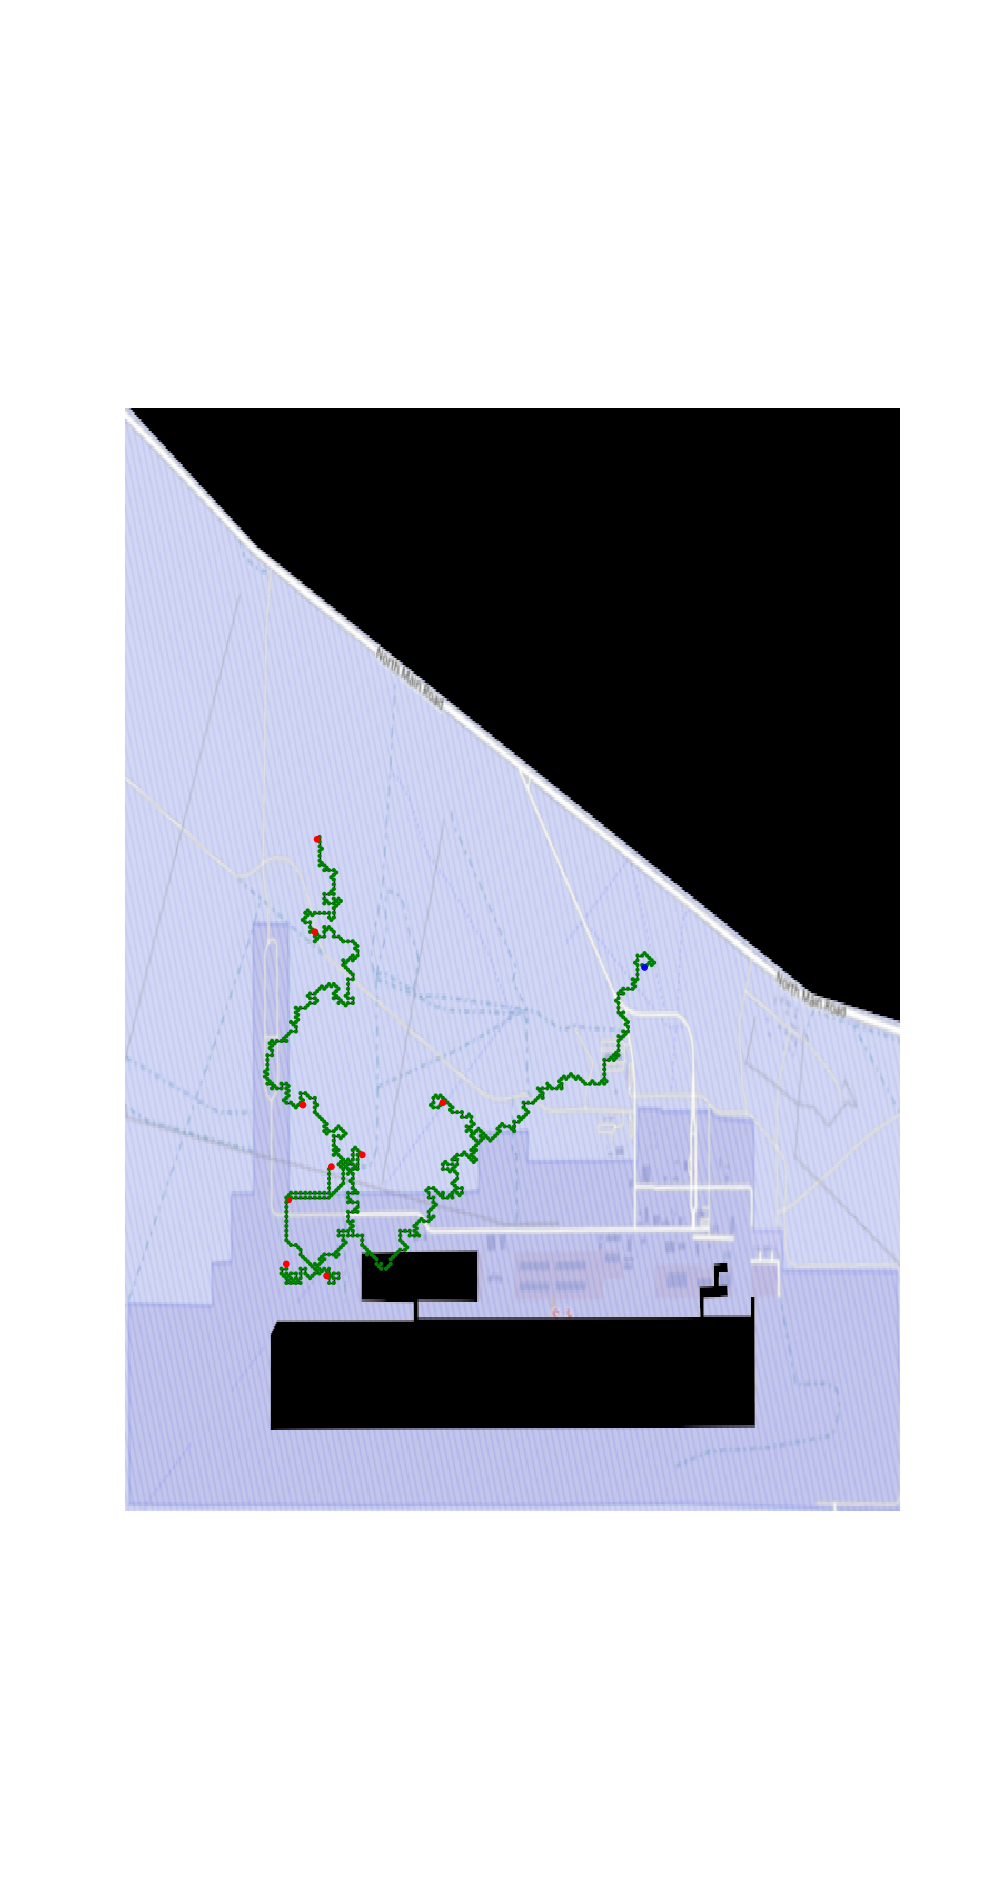
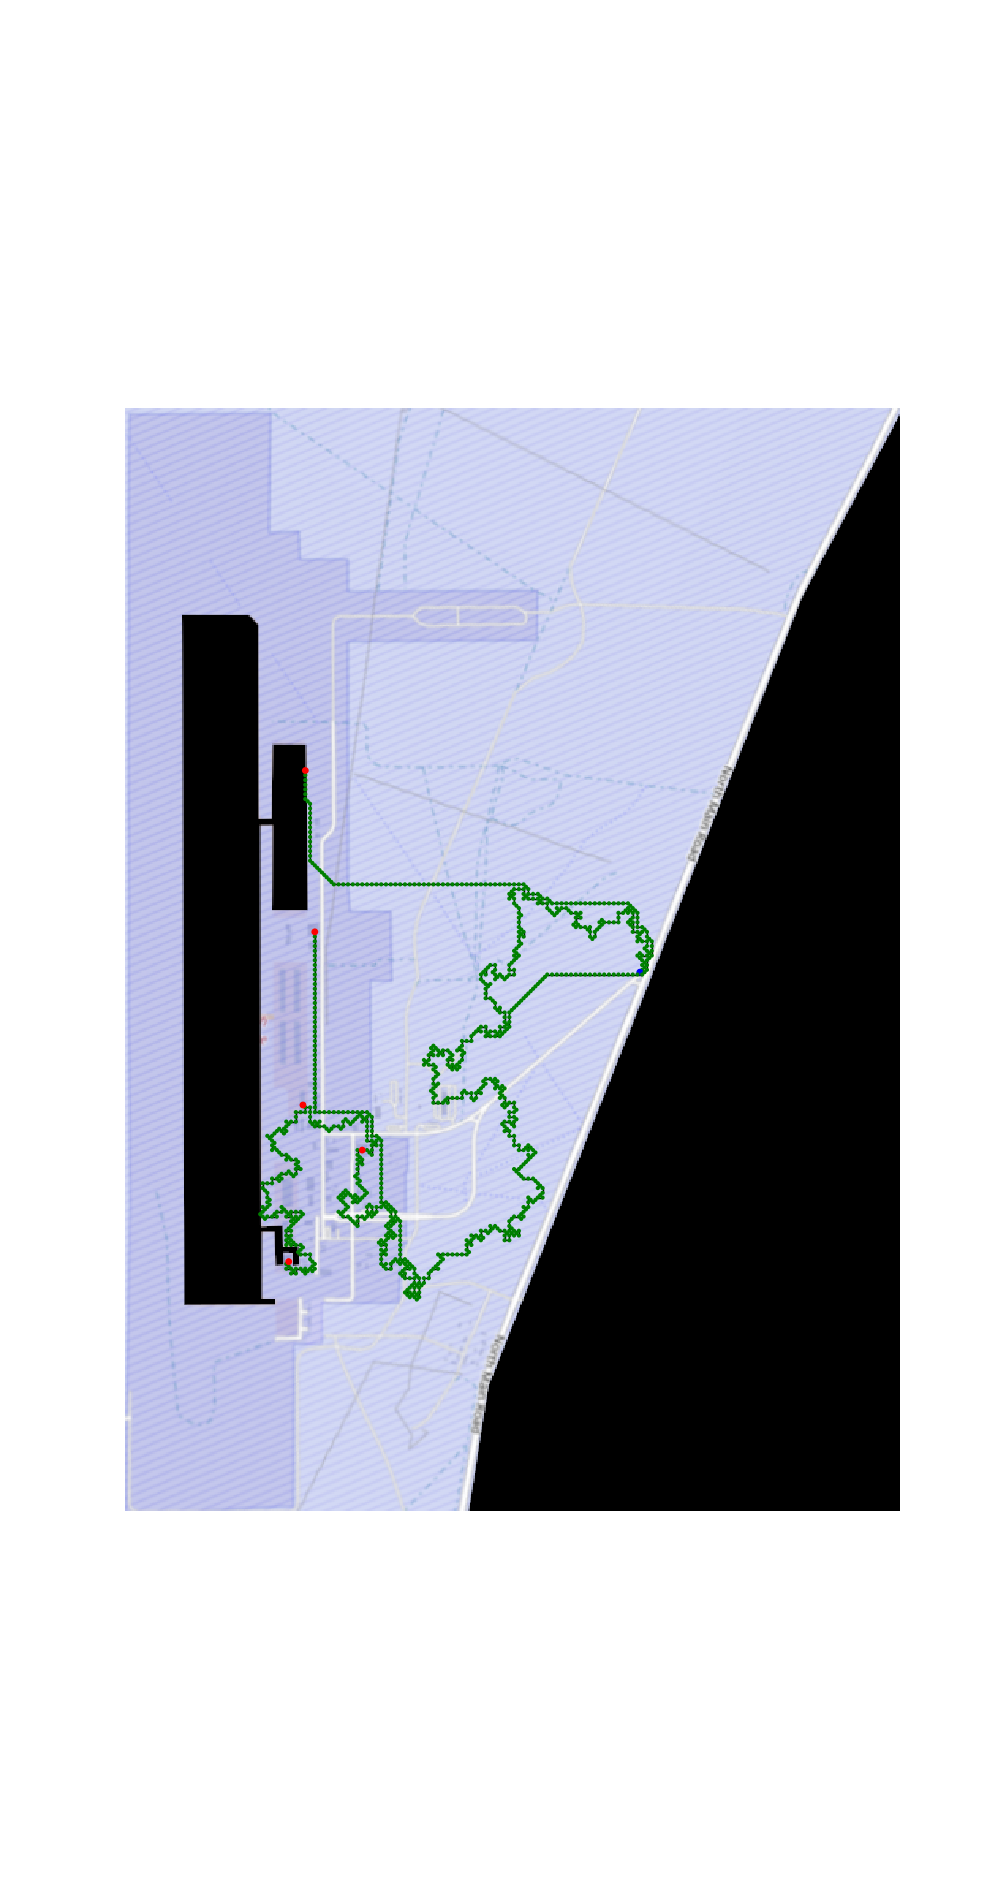
pics of algo result

Changed region(s): [[0.124, 0.2174, 0.899, 0.8074], [0.434, 0.4347, 0.496, 0.4658], [0.124, 0.7453, 0.155, 0.7763]]

diff --git a/results.py b/results.py
@@ -9,7 +9,7 @@ import pickle
 import matplotlib
 import matplotlib.pyplot as plt
 import numpy as np
-# import cv2
+import cv2
 from algo import compute_tree, build_stiener_seed, compute_metric
 from util import (
     random_points,
@@ -728,26 +728,8 @@ def main():
     #            )
     # plt.show()
 
-    ### Compute and time reattachment ###
+    # ### Compute and time reattachment ###
 
-    loc = "results/real"
-    G_f = open(f"{loc}/G.pickle", "rb")
-    G = pickle.load(G_f)
-    info_f = open(f"{loc}/info.pickle", "rb")
-    info = pickle.load(info_f)
-    s = info["s"]
-    targets = info["targets"]
-    budget = info["budget"]
-    G_f.close()
-    info_f.close()
-
-    print("Starting Reattachment...")
-    start = time.perf_counter()
-    res, pred, rounds = compute_tree(G, s, targets, budget, loc=f"{loc}/gen")
-    end = time.perf_counter()
-    print("Elapsed Time =", end - start)
-    
-    # ### Compute iterative results ###
     # loc = "results/real"
     # G_f = open(f"{loc}/G.pickle", "rb")
     # G = pickle.load(G_f)
@@ -758,49 +740,105 @@ def main():
     # budget = info["budget"]
     # G_f.close()
     # info_f.close()
-    # rounds = 10
 
-    # metric_res = []
-    # img = matplotlib.image.imread("maps/tonopah_rotated.png")
-    # mask = cv2.imread("maps/tonopah_rotated_mask.png")
+    # print("Starting Reattachment...")
+    # start = time.perf_counter()
+    # res, pred, rounds = compute_tree(G, s, targets, budget, loc=f"{loc}/gen")
+    # end = time.perf_counter()
+    # print("Elapsed Time =", end - start)
+    
+    ### Compute iterative results ###
+    loc = "results/real"
+    G_f = open(f"{loc}/G.pickle", "rb")
+    G = pickle.load(G_f)
+    info_f = open(f"{loc}/info.pickle", "rb")
+    info = pickle.load(info_f)
+    s = info["s"]
+    targets = info["targets"]
+    budget = info["budget"]
+    G_f.close()
+    info_f.close()
+    rounds = 5
+
+    metric_res = []
+    img = matplotlib.image.imread("maps/tonopah_rotated.png")
+    mask = cv2.imread("maps/tonopah_rotated_mask.png")
     # mask = cv2.rotate(mask, cv2.ROTATE_90_COUNTERCLOCKWISE)
-    # for i in range(rounds):
-    #     print(f"Creating Tree {i + 1}")
-    #     curr_f = open(f"{loc}/gen/{i}.pickle", "rb")
-    #     curr = pickle.load(curr_f)
-    #     curr_f.close()
+    for i in range(rounds):
+        print(f"Creating Tree {i + 1}")
+        curr_f = open(f"{loc}/gen/{i}.pickle", "rb")
+        curr = pickle.load(curr_f)
+        curr_f.close()
 
-    #     # stats
-    #     forced, metric, _ = compute_metric(curr, s, targets)
-    #     metric_res.append(metric)
+        # stats
+        forced, metric, _ = compute_metric(curr, s, targets)
+        metric_res.append(metric)
 
-    #     fig = plt.figure(frameon=False, figsize=(10, 19))
-    #     extent = 0, img.shape[1], 0, img.shape[0]
-    #     plt.imshow(mask, extent=extent, interpolation="nearest")
-    #     nodes = curr.nodes(data=True)
-    #     colors = []
-    #     sizes = []
-    #     for node in curr.nodes():
-    #         if node == "start":
-    #             colors.append("blue")
-    #             sizes.append(15)
-    #         elif "target" in node:
-    #             colors.append("red")
-    #             sizes.append(15)
-    #         else:
-    #             colors.append("green")
-    #             sizes.append(4)
-    #     positions = nx.get_node_attributes(G, "pos")
-    #     nx.draw(
-    #         curr,
-    #         pos=positions,
-    #         node_size=sizes,
-    #         node_color=colors,
-    #     )
-    #     plt.savefig(f"{loc}/pics/{i}.png")
-    #     plt.close()
-    # for i, metric in enumerate(metric_res):
-    #     print(f"Tree {i + 1}: {metric}")
+        fig = plt.figure(frameon=False, figsize=(10, 19))
+        extent = 0, img.shape[1], 0, img.shape[0]
+        plt.imshow(mask, extent=extent, interpolation="nearest")
+        nodes = curr.nodes(data=True)
+        colors = []
+        sizes = []
+        for node in curr.nodes():
+            if node == "start":
+                colors.append("blue")
+                sizes.append(15)
+            elif "target" in node:
+                colors.append("red")
+                sizes.append(15)
+            else:
+                colors.append("green")
+                sizes.append(4)
+        positions = nx.get_node_attributes(G, "pos")
+        nx.draw(
+            curr,
+            pos=positions,
+            node_size=sizes,
+            node_color=colors,
+        )
+        plt.savefig(f"{loc}/pics/{i}.png")
+        plt.close()
+    for i, metric in enumerate(metric_res):
+        print(f"Tree {i + 1}: {metric}")
+
+    ### Generate Random Spanning Trees ###
+    loc = "results/real"
+    G_f = open(f"{loc}/G.pickle", "rb")
+    G = pickle.load(G_f)
+    info_f = open(f"{loc}/info.pickle", "rb")
+    info = pickle.load(info_f)
+    s = info["s"]
+    targets = info["targets"]
+    budget = info["budget"]
+    G_f.close()
+    info_f.close()
+    total_time = 60 * 80 + 43 # 80 minutes, 43 seconds
+
+    start = time.perf_counter()
+    done = False
+    best = float("-inf")
+    best_tree = None
+    count = 0
+    while not done:
+        rst, pred = build_stiener_seed(G, s, targets, minimum=None)
+        size = rst.size(weight="weight")
+        curr = time.perf_counter()
+        if curr - start < total_time:
+            count += 1
+            if size > budget:
+                res = 0.0
+            else:
+                forced, metric, _ = compute_metric(rst, s, targets)
+                res = metric if not forced else 0.0
+            if res > best:
+                best = res
+                best_tree = rst
+        else:
+            done = True
+    print(f"Number of Trees Generated = {count}")
+    print(f"Metric of Best Tree = {best}")
+    pickle.dump(rst, open(f"{loc}/rst.pickle", "wb"))
 
     ####################
     # BUDGET BENCHMARK #
